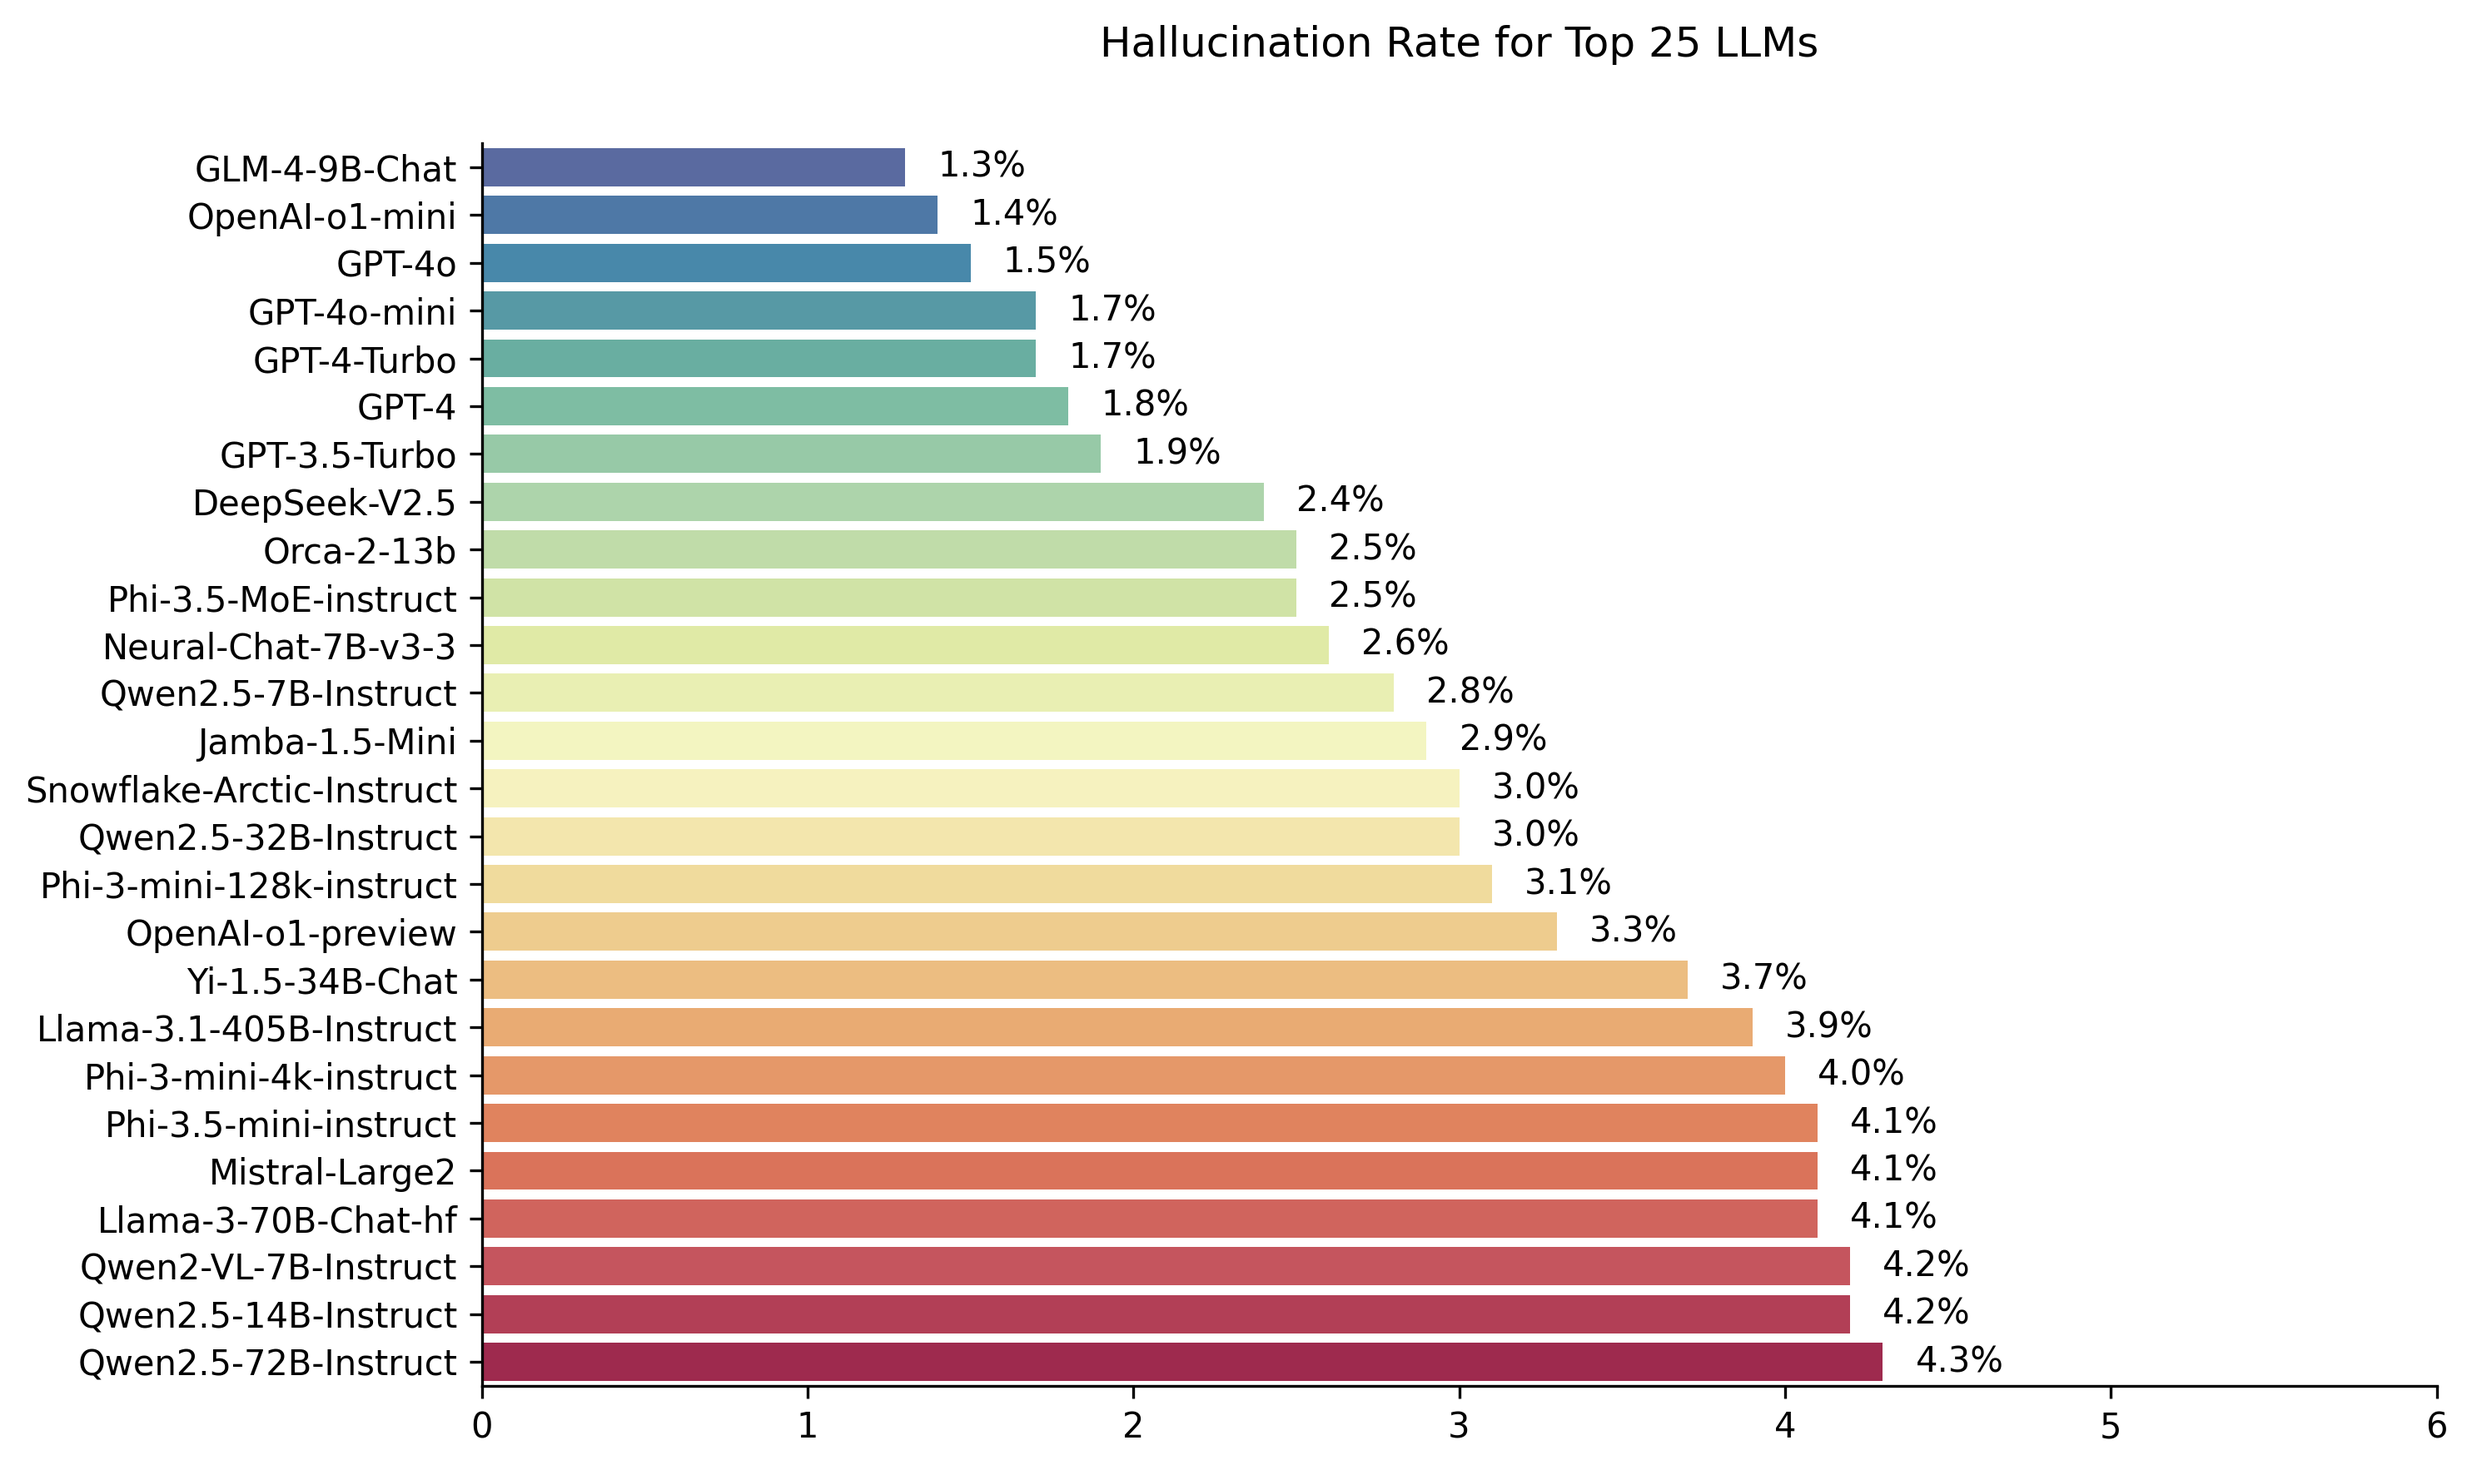
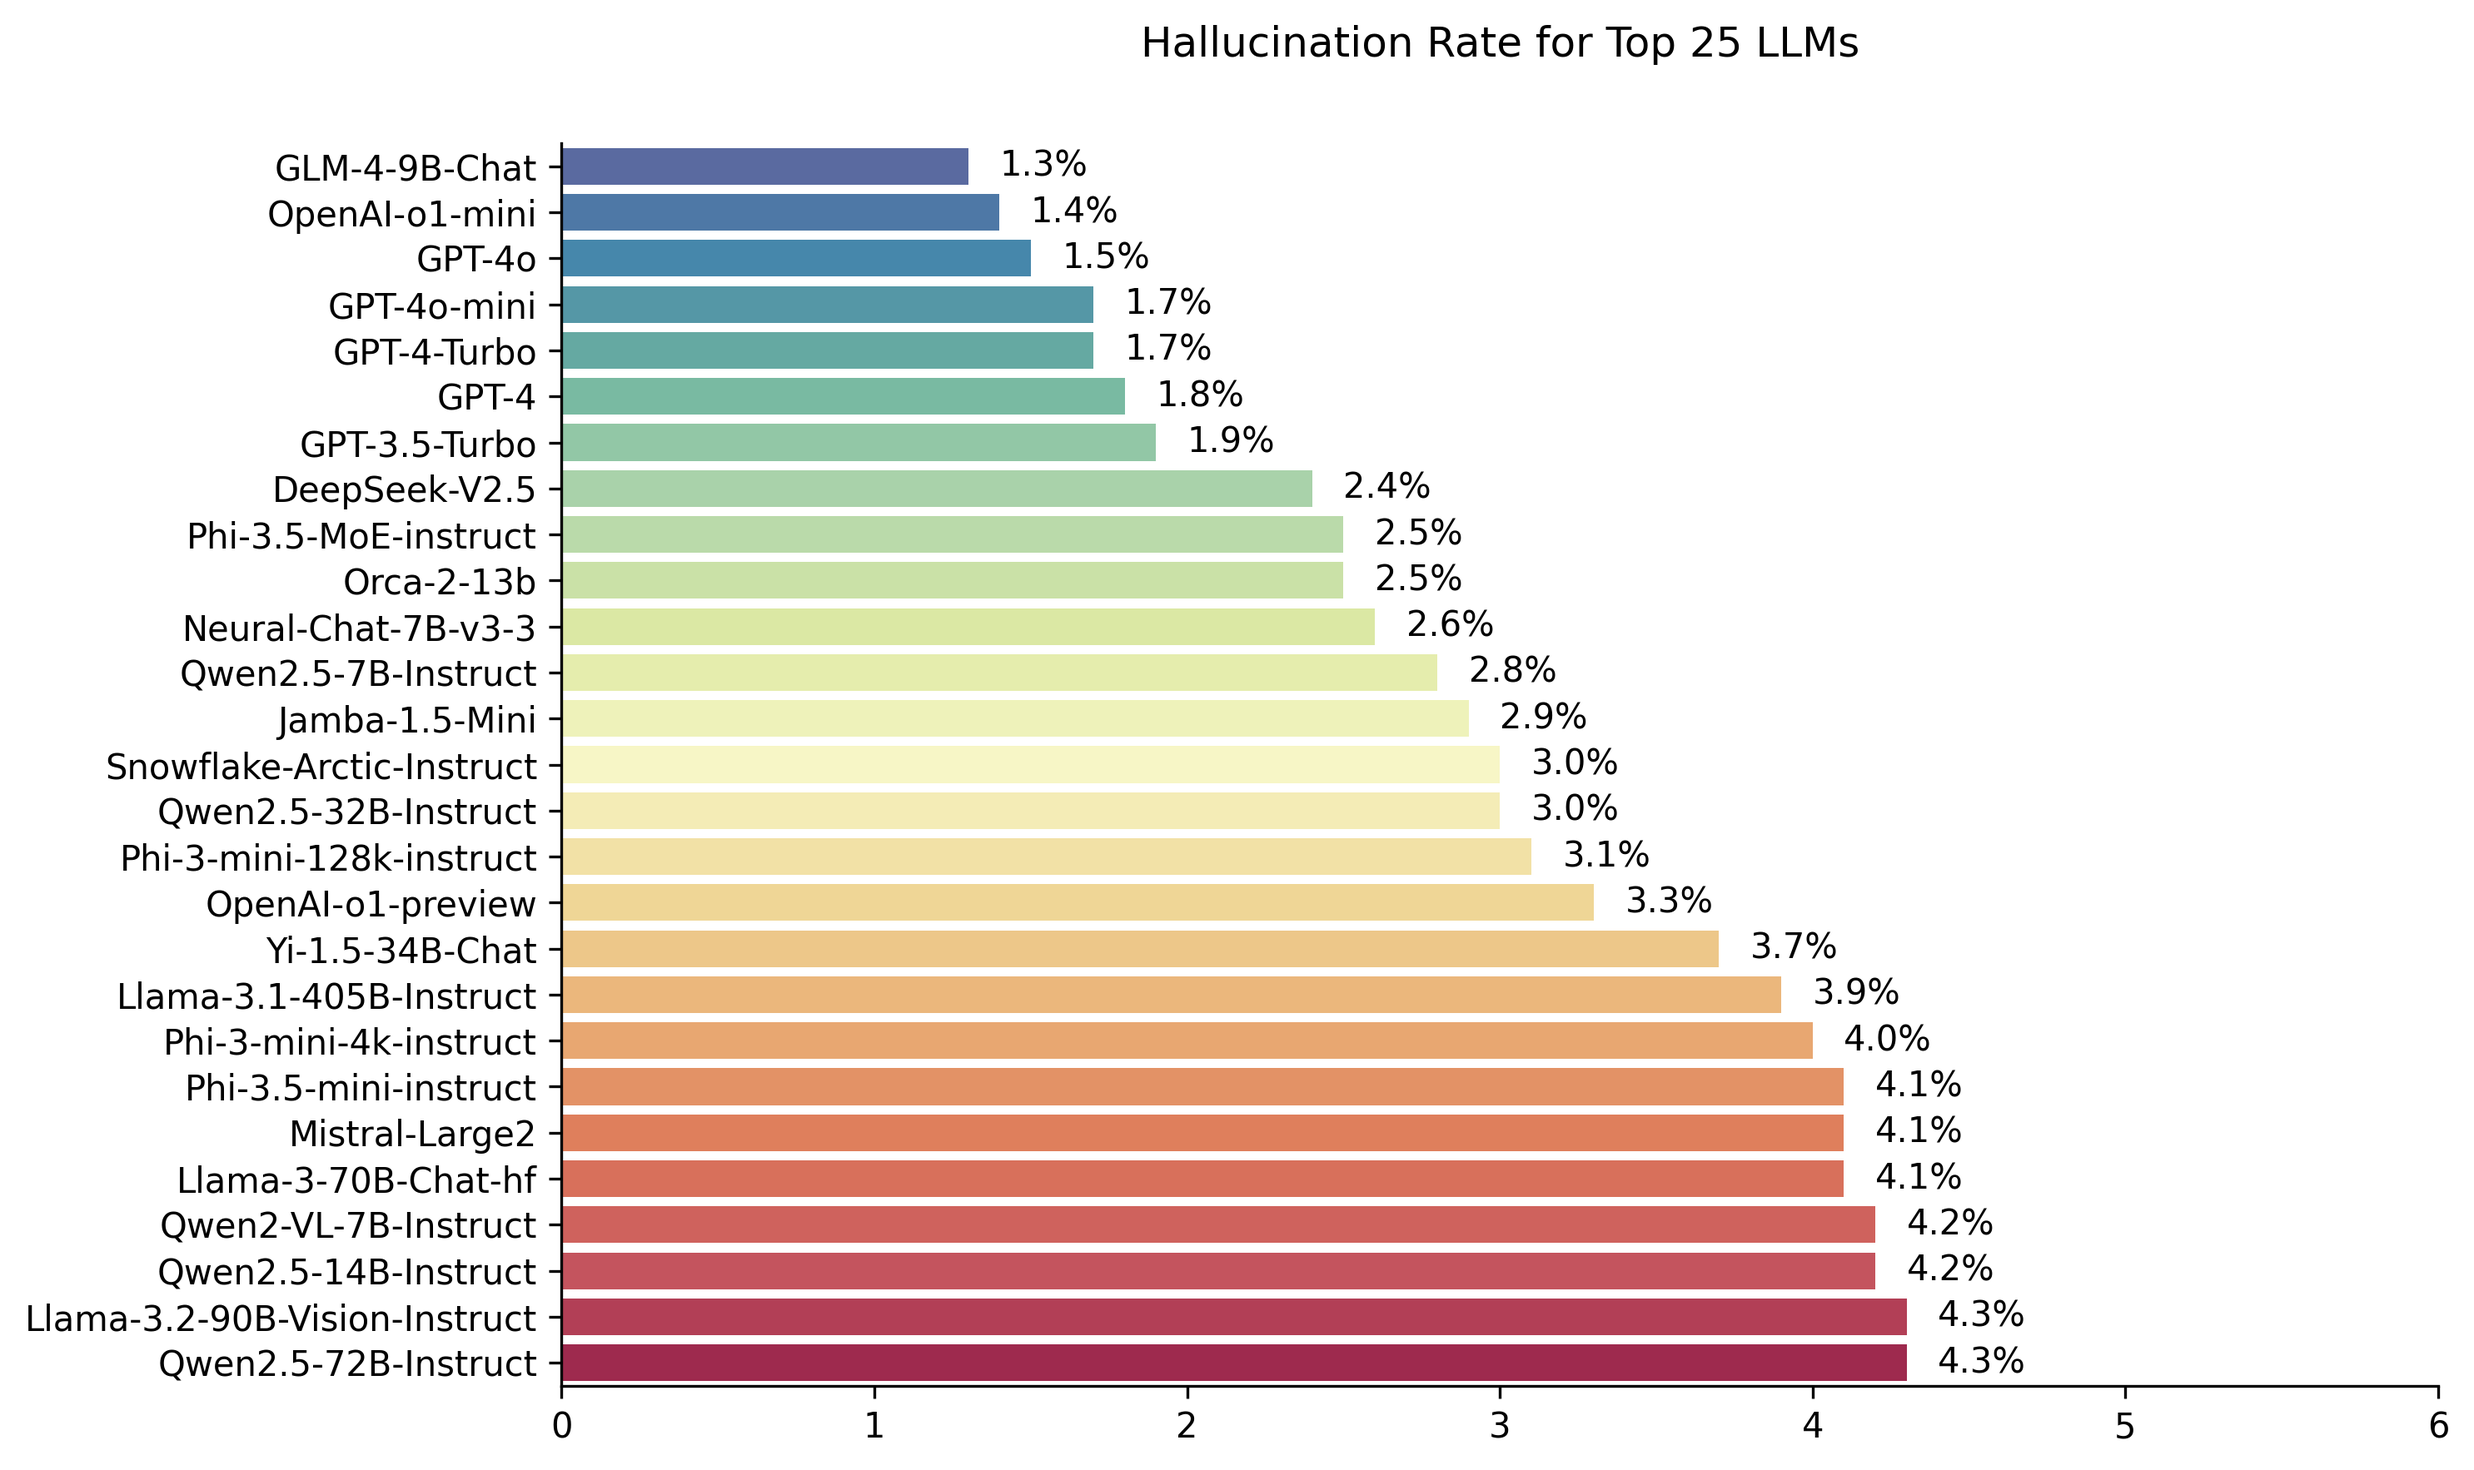
update results for llama 3.2 vision 11b and 90b

Changed region(s): [[0.0, 0.0934, 0.8366, 0.9655], [0.4338, 0.0, 0.7437, 0.0623]]

diff --git a/README.md b/README.md
@@ -52,6 +52,7 @@ Last updated on September 26th, 2024
 |Qwen2-VL-7B-Instruct|4.2 %|95.8 %|100.0 %|73.9|
 |Qwen2.5-14B-Instruct|4.2 %|95.8 %|100.0 %|74.8|
 |Qwen2.5-72B-Instruct|4.3 %|95.7 %|100.0 %|80.0|
+|Llama-3.2-90B-Vision-Instruct|4.3 %|95.7 %|100.0 %|79.8|
 |Qwen2-72B-Instruct|4.7 %|95.3 %|100.0 %|100.1|
 |Mixtral-8x22B-Instruct-v0.1|4.7 %|95.3 %|99.9 %|92.0|
 |01-AI Yi-1.5-9B-Chat|4.9 %|95.1 %|100.0 %|85.7|
@@ -59,6 +60,7 @@ Last updated on September 26th, 2024
 |Llama-3.1-70B-Instruct|5.0 %|95.0 %|100.0 %|79.6|
 |Llama-3.1-8B-Instruct|5.4 %|94.6 %|100.0 %|71.0|
 |Cohere Command-R-Plus|5.4 %|94.6 %|100.0 %|68.4|
+|Llama-3.2-11B-Vision-Instruct|5.5 %|94.5 %|100.0 %|67.3|
 |Llama-2-70B-Chat-hf|5.9 %|94.1 %|99.9 %|84.9|
 |Google Gemini-Flash-Experimental|6.3 %|93.7 %|99.9 %|58.9|
 |Google Gemini-1.5-Flash|6.6 %|93.4 %|99.9 %|63.3|
@@ -66,14 +68,12 @@ Last updated on September 26th, 2024
 |Google Gemma-2-2B-it|7.0 %|93.0 %|100.0 %|62.2|
 |Qwen2.5-3B-Instruct|7.0 %|93.0 %|100.0 %|70.4|
 |Llama-3-8B-Chat-hf|7.4 %|92.6 %|99.8 %|79.7|
-|Llama-3.2-90B-Vision-Instruct|7.6 %|92.4 %|100.0 %|83.3|
 |Google Gemini-Pro|7.7 %|92.3 %|98.4 %|89.5|
 |01-AI Yi-1.5-6B-Chat|7.9 %|92.1 %|100.0 %|98.9|
 |Llama-3.2-3B-Instruct|7.9 %|92.1 %|100.0 %|72.2|
 |databricks dbrx-instruct|8.3 %|91.7 %|100.0 %|85.9|
 |Qwen2-VL-2B-Instruct|8.3 %|91.7 %|100.0 %|81.8|
 |Anthropic Claude-3-5-sonnet|8.6 %|91.4 %|100.0 %|103.0|
-|Llama-3.2-11B-Vision-Instruct|8.9 %|91.1 %|100.0 %|73.1|
 |Mistral-7B-Instruct-v0.3|9.5 %|90.5 %|100.0 %|98.4|
 |Google Gemini-1.5-Pro|9.1 %|90.9 %|99.8 %|61.6|
 |Google Gemini-Pro-Experimental|10.0 %|90.0 %|99.8 %|65.6|
